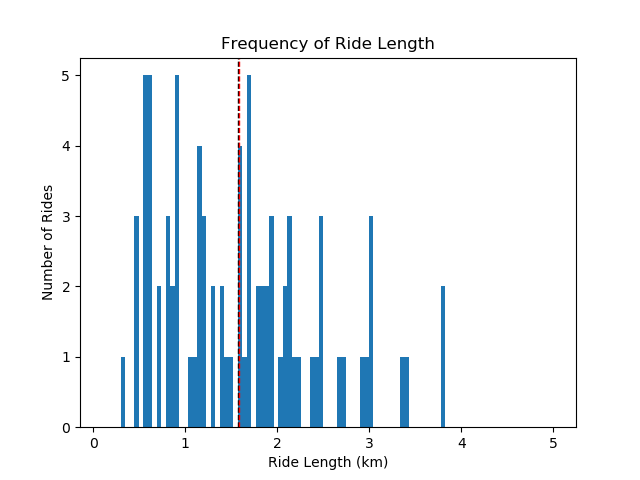
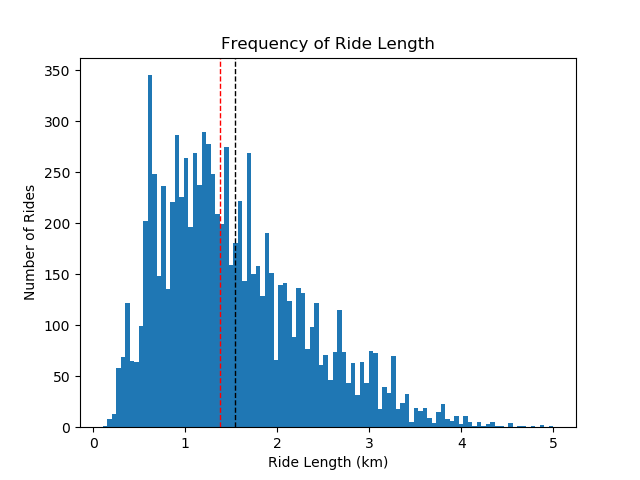
kjlfs

diff --git a/hello/templates/index.html b/hello/templates/index.html
@@ -30,8 +30,8 @@
               <p>
                 The dataset provides information about the duration of each ride in seconds.
                 The code translates this data into minutes then plots the frequency of the rides
-                lengths. While the average ride lasts 25.92 minutes, a better indicator of the
-                average, the median, hovers around 15 minutes.
+                lengths. While the mean-average ride lasts 25.92 minutes, a better indicator of the
+                average, the median, is 10.0 minutes.
               </p>
               <img src="{% static 'duration_code.png'%}" width=50% height=50%>
           </div>
@@ -48,6 +48,7 @@
             <p>
               The dataset provides information about the length of each ride.
               his histogram shows the distribution of the durations of the rides in km.
+              The mean-average ride lasts 1.53km where the median ride lasts 1.38km. 
             </p>
             <img src="{% static 'length_code.png'%}" width=50% height=50%>
         </div>
